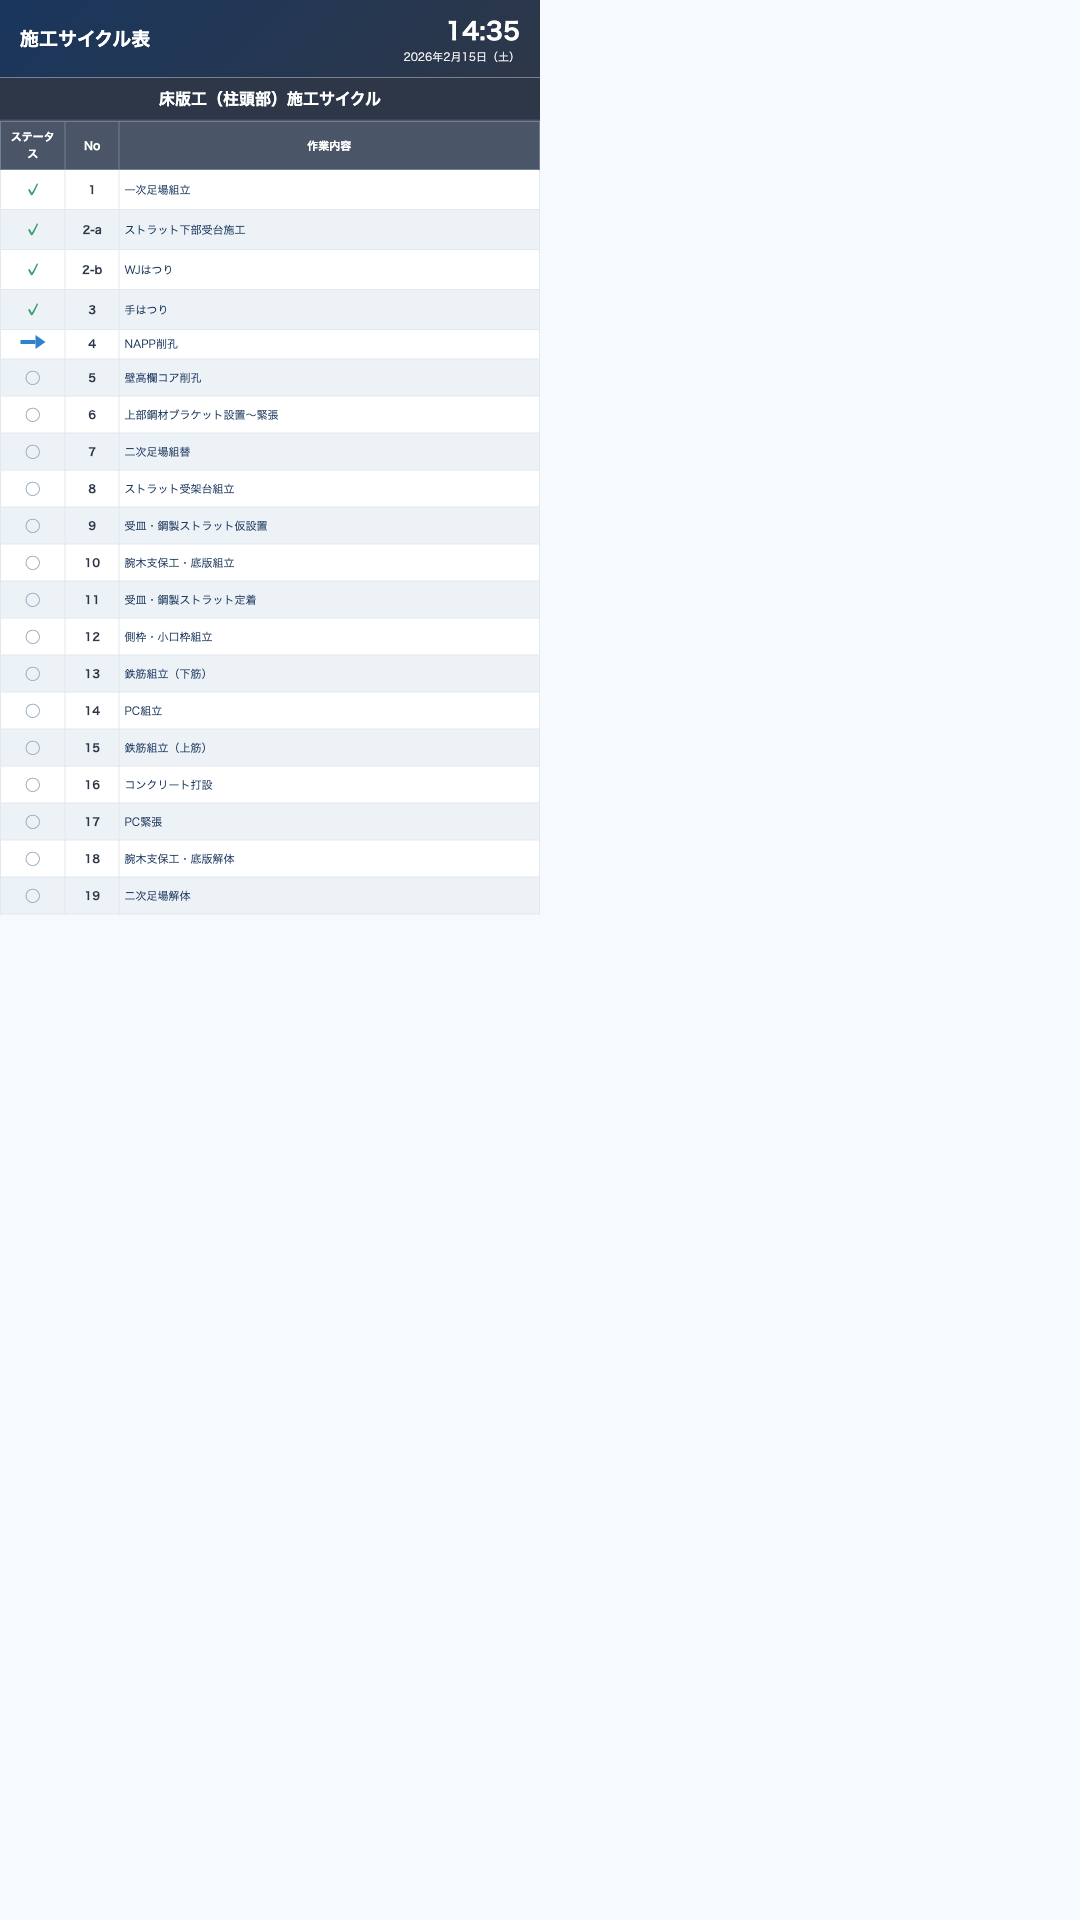
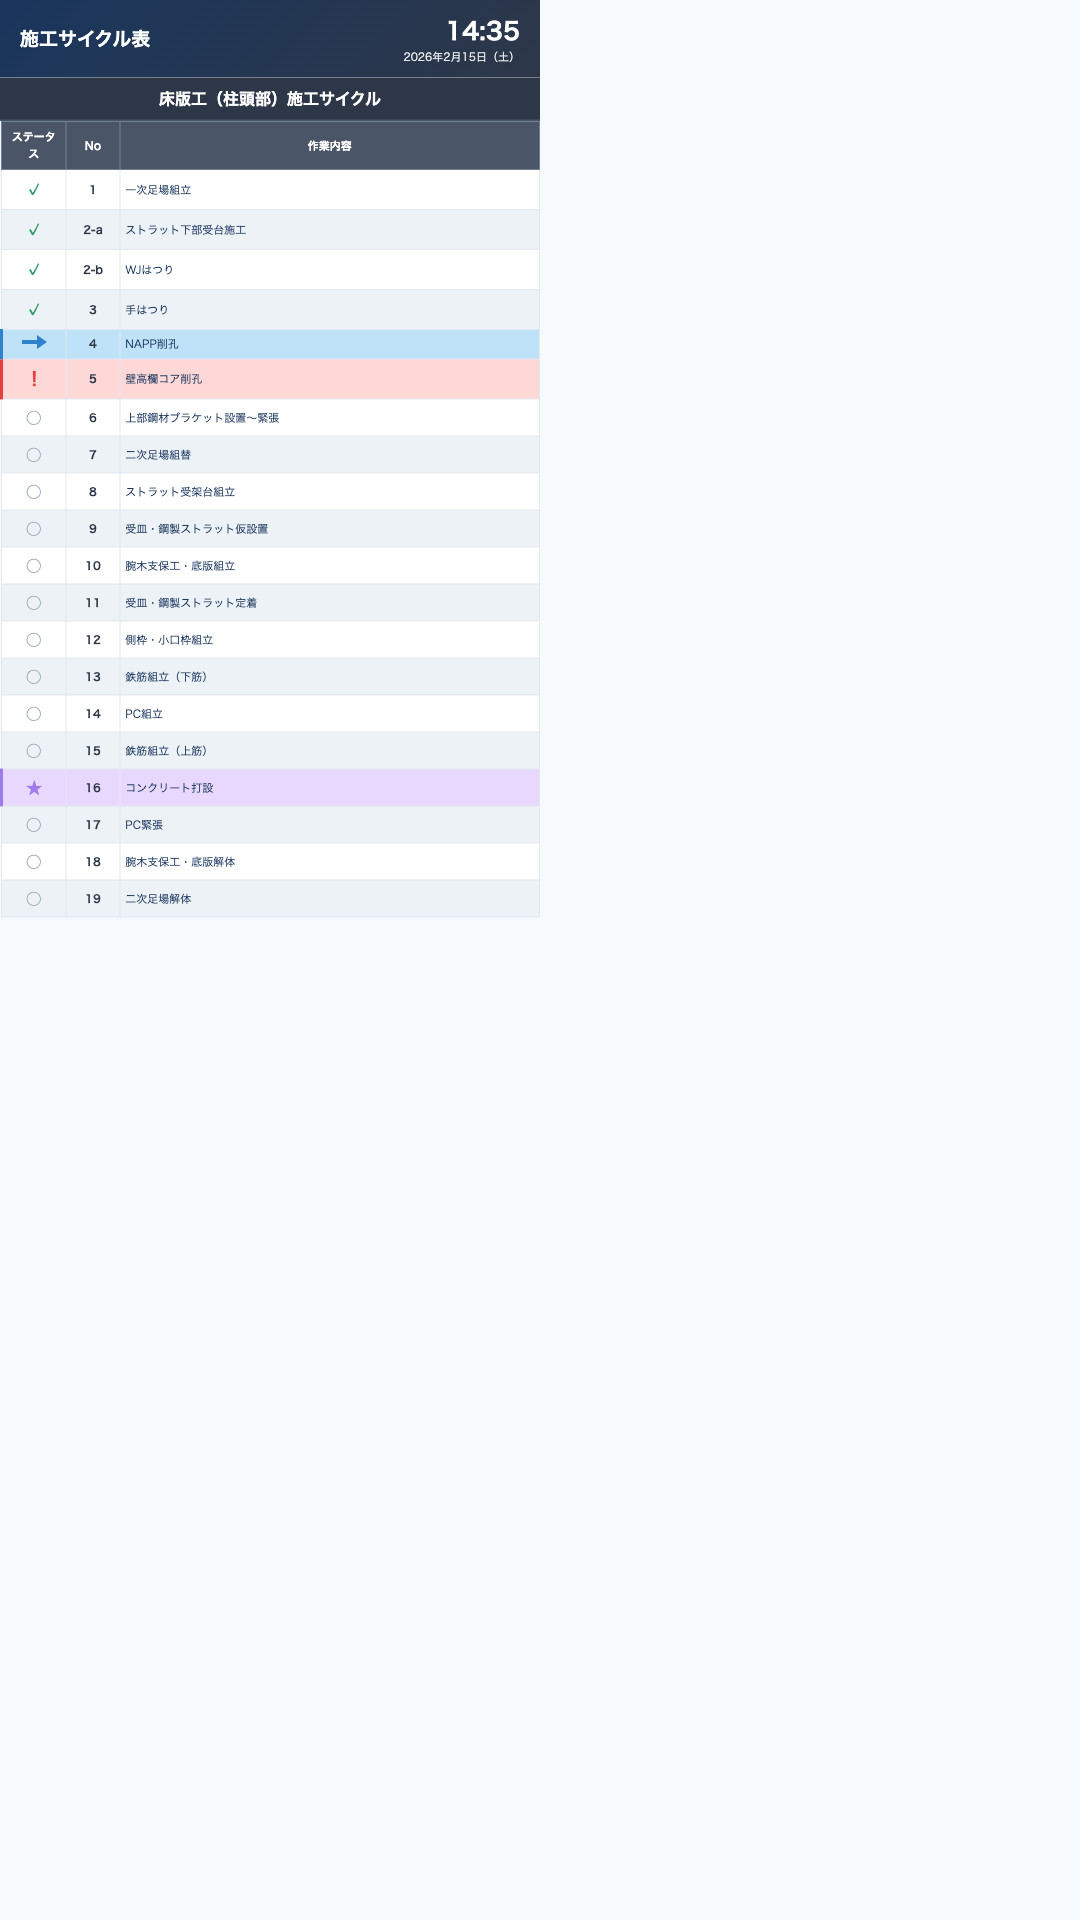
Cycle table: row highlight colors for progress/warning/custom status

Changed region(s): [[0.0, 0.1562, 0.5194, 0.4688], [0.1222, 0.0938, 0.1833, 0.125], [0.0, 0.0625, 0.0306, 0.0938]]

diff --git a/screens/vertical/02_施工サイクル表.html b/screens/vertical/02_施工サイクル表.html
@@ -79,6 +79,23 @@
     .cycle-table tr:nth-child(even) { background: #edf2f7; }
     .cycle-table tr:nth-child(odd) { background: #ffffff; }
     
+    /* 行ごとの強調色 */
+    .row-complete {
+      background: #c6f6d5 !important;
+    }
+    .row-progress {
+      background: #bee3f8 !important;
+      border-left: 6px solid #3182ce;
+    }
+    .row-warning {
+      background: #fed7d7 !important;
+      border-left: 6px solid #e53e3e;
+    }
+    .row-custom {
+      background: #e9d8fd !important;
+      border-left: 6px solid #9f7aea;
+    }
+    
     .status-cell {
       text-align: center;
     }
@@ -196,13 +213,13 @@
             <td class="no-cell">3</td>
             <td class="content-cell">手はつり</td>
           </tr>
-          <tr>
+          <tr class="row-progress">
             <td class="status-cell"><span class="status-progress"></span></td>
             <td class="no-cell">4</td>
             <td class="content-cell">NAPP削孔</td>
           </tr>
-          <tr>
-            <td class="status-cell"><span class="status-pending">○</span></td>
+          <tr class="row-warning">
+            <td class="status-cell"><span class="status-warning">!</span></td>
             <td class="no-cell">5</td>
             <td class="content-cell">壁高欄コア削孔</td>
           </tr>
@@ -256,8 +273,8 @@
             <td class="no-cell">15</td>
             <td class="content-cell">鉄筋組立（上筋）</td>
           </tr>
-          <tr>
-            <td class="status-cell"><span class="status-pending">○</span></td>
+          <tr class="row-custom">
+            <td class="status-cell"><span class="status-custom">★</span></td>
             <td class="no-cell">16</td>
             <td class="content-cell">コンクリート打設</td>
           </tr>
